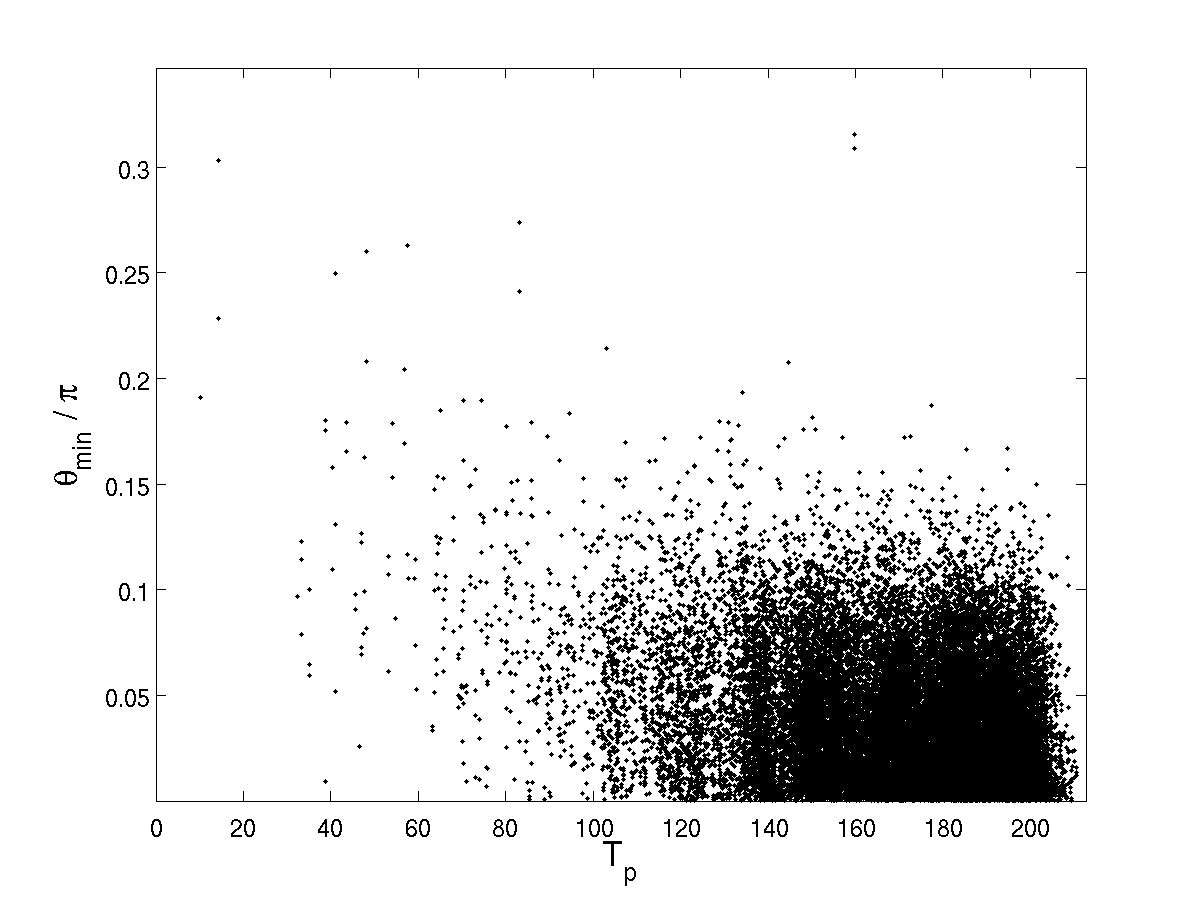
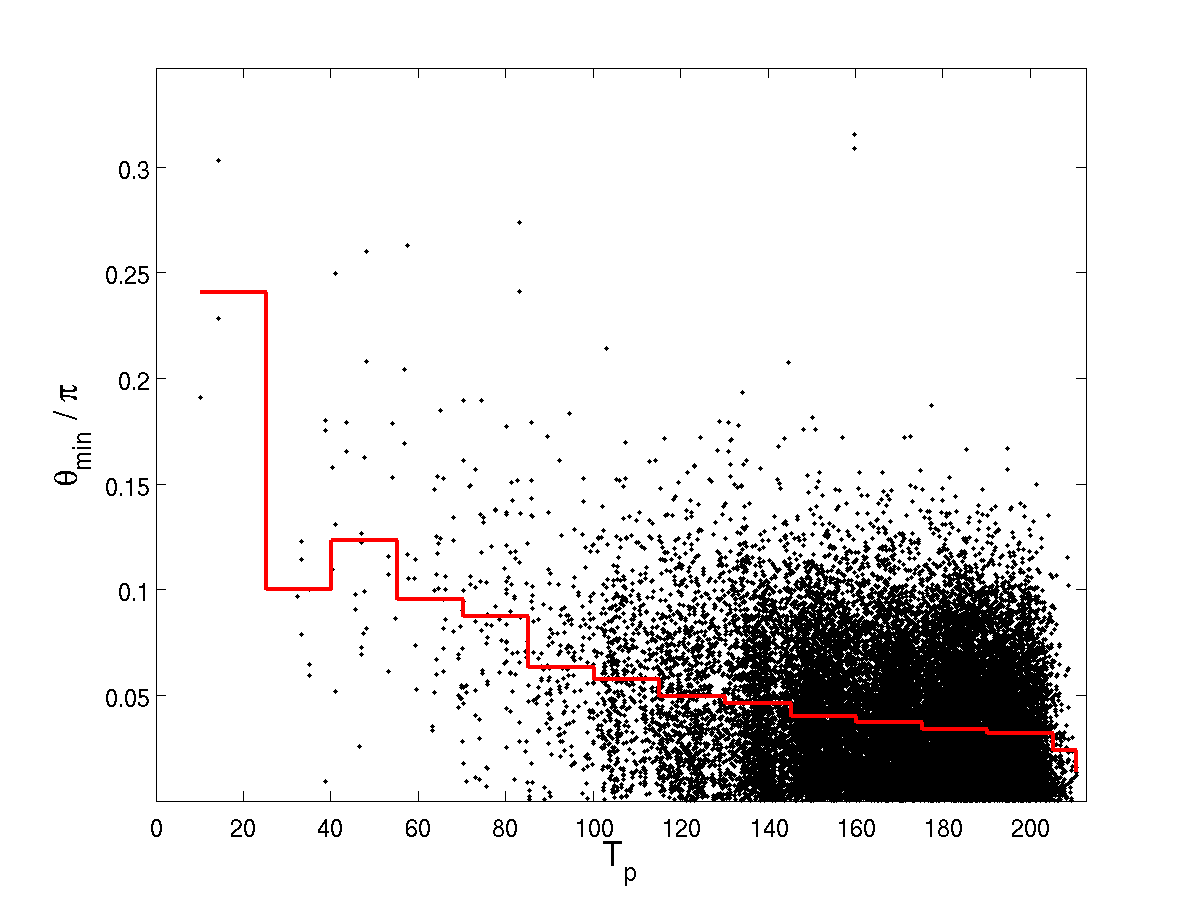
Added a figure of averaged minimum angle versus the period as suggested by Hugues.

diff --git a/lyapunov/KS.tex b/lyapunov/KS.tex
@@ -1201,8 +1201,9 @@ cited.
 Approximate minimum angle of pairs of Floquet eigenvectors
 $\jEigvec[i],\, \jEigvec[j]$, $i,j=1,\ldots 5,\, i\neq j$ (angle was not
 computed for marginal directions) along numerically computed points of
-periodic orbits, (a) versus the period of the orbit $T_p$ and (b)
-versus the largest Floquet exponent $\eigRe[1]_p$.
+periodic orbits, (a) versus the period of the orbit $T_p$. Red solid line
+shows the average minimum angle over bins of $\Delta T_p=15$. (b)
+Minimum angle versus the largest Floquet exponent $\eigRe[1]_p$.
 (c) Probability density function of the minimum angles shown in panel
 (a). KS system size $L=22$, 16 Fourier modes truncation.
 }
@@ -1328,5 +1329,9 @@ I'm sure this will allow us to organize them into 'happy families'.
 \item[2011-11-02 Evangelos] A ``proximity'' search among RPOs/PPOs is what I am running right now with the goal of simply finding orbits close to the
 shortest periodic orbit. However, organizing the orbits into families this way really seems possible now. Stay tuned... 
 
+\item[2011-11-02 Evangelos] Asked by Hugues to plot the average minimum angle over some bins in $T_p$ in 
+\reffig{fig:ks22ppo_min_angle}(a). I think it shows a tendency towards smaller angles for larger periods, but I wouldn't be
+able to say for sure whether it saturates towards some finite value or tends to zero. However, given the fact that we sample over a
+finite set of points along each orbit, so a tendency of the minimum angle towards a finite value should be expected.
 
 \end{description}

diff --git a/chao/matlab/ruslan/ks22ppo_angl_plot.m b/chao/matlab/ruslan/ks22ppo_angl_plot.m
@@ -1,3 +1,5 @@
+
+clear;
 load ks22f90h25angl.mat
 
 
@@ -52,6 +54,16 @@ saveas(fig1, 'ks22ppo_min_angle.png');
 saveTightFigure(fig1, 'ks22ppo_min_angle.pdf');
 saveas(fig1, 'ks22ppo_min_angle.eps');
 
+period_edges=[min(Ttab):15:max(Ttab) max(Ttab)];
+n_elements = histc(Ttab, period_edges);
+c_elements = cumsum(n_elements);
+anglTabC=zeros(size(c_elements,2),1);
+anglTabC(1)=mean(anglTab(1:c_elements(1)));
+for i=2:size(anglTabC)-1, %
+    anglTabC(i)=mean(anglTab(c_elements(i-1)+1:c_elements(i)));
+end
+plot(period_edges,anglTabC,'r-','MarkerSize', 8);
+% plot(period_edges,anglTabC,'r.','MarkerSize', 6);
 
 hold off;
 
